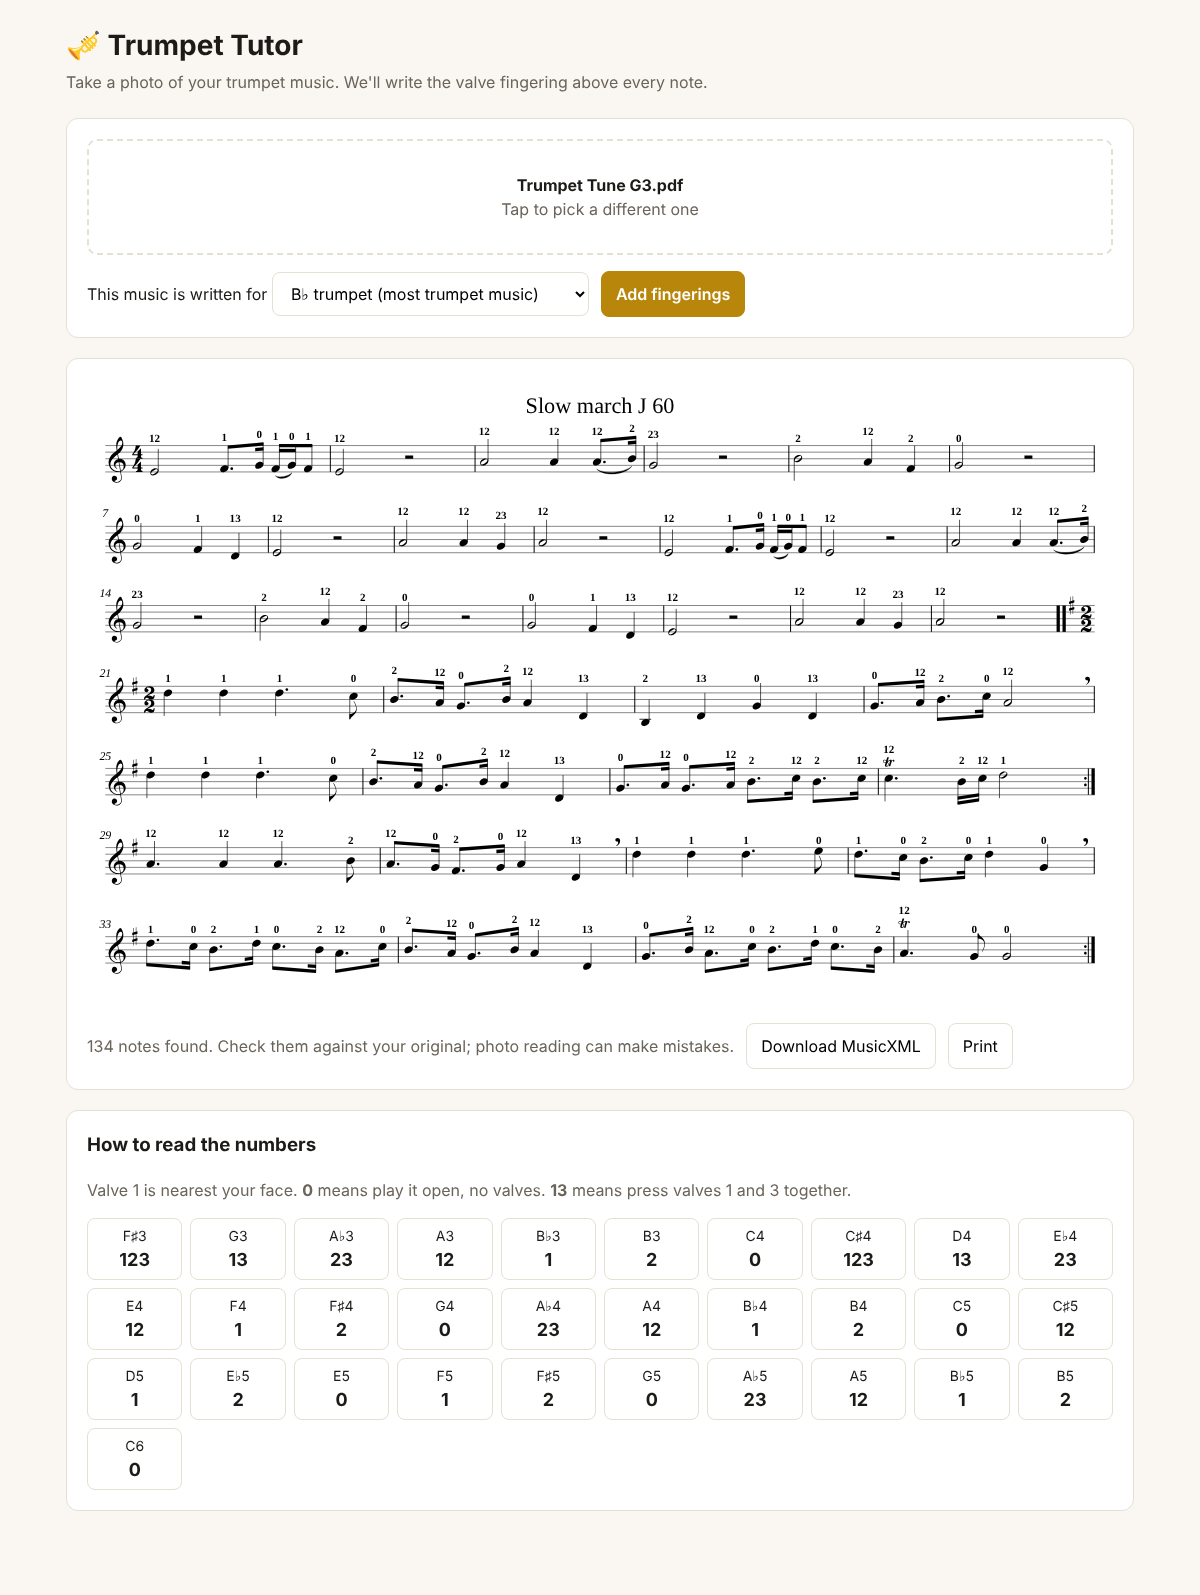
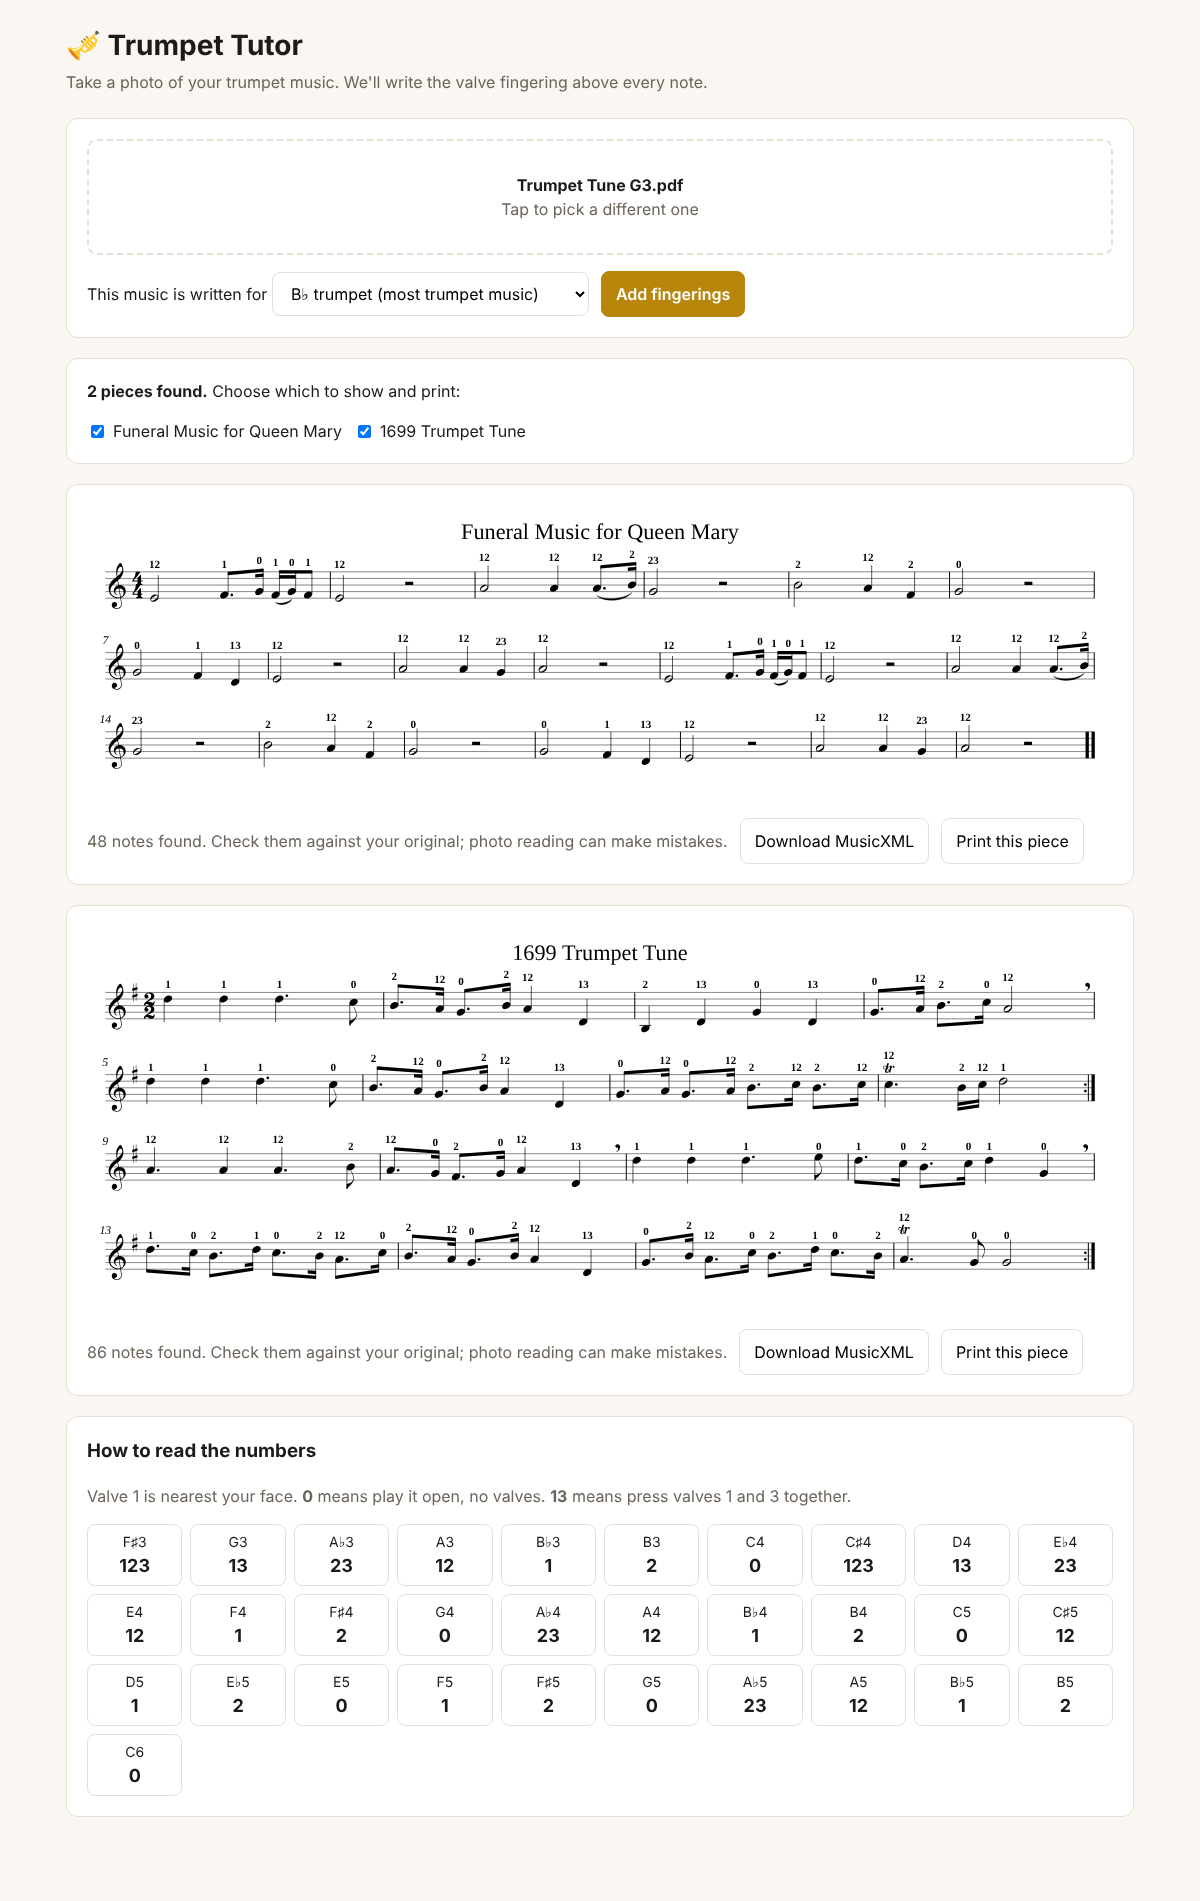
Show each piece on a page separately, with a piece picker
homr reads a page as one piece, so a page with two tunes came back as
one long score under one title. Split the score where the gap between
staves is much bigger than usual, read each title with OCR, and let the
user choose which pieces to show and print.

Claude-Session: https://claude.ai/code/session_011UwKBBp6m2Gx7RRsJYKoG7

diff --git a/app/static/index.html b/app/static/index.html
@@ -26,6 +26,8 @@
   .legend div { border: 1px solid var(--line); border-radius: 8px; padding: 6px 8px; text-align: center; }
   .legend b { display: block; font-size: 18px; }
   .warn { color: var(--warn); font-size: 14px; }
+  .pick { display: flex; gap: 6px; align-items: center; }
+  .piece { break-after: page; }
   @media print { .no-print { display: none; } .card { border: 0; padding: 0; } body { background: #fff; } }
 </style>
 </head>
@@ -103,7 +105,7 @@ $('go').addEventListener('click', async () => {
       if (data.progress) $('status').textContent = data.progress + '… about half a minute per page.';
     } while (data.status === 'working');
     if (data.status === 'error') throw new Error(data.detail);
-    showResults(data.pages);
+    showResults(data.pieces);
     $('status').textContent = '';
   } catch (err) {
     $('status').className = 'error';
@@ -126,26 +128,55 @@ async function call(url, options) {
   return data;
 }
 
-function showResults(pages) {
-  pages.forEach((page, i) => {
+function showResults(pieces) {
+  // With several pieces, let the reader pick which ones to show and print.
+  if (pieces.length > 1) {
+    const picker = document.createElement('div');
+    picker.className = 'card no-print';
+    picker.innerHTML = `<b>${pieces.length} pieces found.</b> Choose which to show and print:
+      <div class="row">${pieces.map((p, i) =>
+        `<label class="pick"><input type="checkbox" data-piece="${i}" checked> ${escapeHtml(p.title)}</label>`).join('')}</div>`;
+    picker.addEventListener('change', e => {
+      const box = e.target.closest('input[data-piece]');
+      if (box) $('piece-' + box.dataset.piece).hidden = !box.checked;
+    });
+    $('results').appendChild(picker);
+  }
+  pieces.forEach((piece, i) => {
     const card = document.createElement('div');
-    card.className = 'card';
-    const out = page.notes.filter(n => !n.in_range);
+    card.className = 'card piece';
+    card.id = 'piece-' + i;
+    const out = piece.notes.filter(n => !n.in_range);
     const warn = out.length
       ? `<p class="warn">${out.length} note(s) are outside the normal trumpet range and are marked “?”: ${out.map(n => n.note + ' (bar ' + n.measure + ')').join(', ')}.</p>`
       : '';
-    const blob = new Blob([page.musicxml], { type: 'application/vnd.recordare.musicxml+xml' });
+    const blob = new Blob([piece.musicxml], { type: 'application/vnd.recordare.musicxml+xml' });
+    const filename = piece.title.replace(/[^A-Za-z0-9]+/g, '-').replace(/^-|-$/g, '') || 'fingerings';
     card.innerHTML = `
-      ${pages.length > 1 ? `<h3>Page ${i + 1}</h3>` : ''}
-      <div class="score">${page.svg.join('')}</div>
+      <div class="score">${piece.svg.join('')}</div>
       ${warn}
       <div class="row no-print">
-        <span class="status">${page.notes.length} notes found. Check them against your original; photo reading can make mistakes.</span>
-        <a download="fingerings.musicxml" href="${URL.createObjectURL(blob)}"><button>Download MusicXML</button></a>
-        <button onclick="window.print()">Print</button>
+        <span class="status">${piece.notes.length} notes found. Check them against your original; photo reading can make mistakes.</span>
+        <a download="${filename}.musicxml" href="${URL.createObjectURL(blob)}"><button>Download MusicXML</button></a>
+        <button data-print="${i}">Print this piece</button>
       </div>`;
+    card.querySelector('[data-print]').addEventListener('click', () => printOnly(card));
     $('results').appendChild(card);
   });
+}
+
+// Print a single piece by briefly hiding the others.
+function printOnly(card) {
+  const hidden = [...document.querySelectorAll('.piece')].filter(c => c !== card && !c.hidden);
+  hidden.forEach(c => c.hidden = true);
+  window.print();
+  hidden.forEach(c => c.hidden = false);
+}
+
+function escapeHtml(text) {
+  const div = document.createElement('div');
+  div.textContent = text;
+  return div.innerHTML;
 }
 
 // Fingering chart for the legend (written pitch, B-flat trumpet).

diff --git a/app/pieces.py b/app/pieces.py
@@ -1,0 +1,160 @@
+"""Split a page that holds several pieces into one score per piece.
+
+homr reads a whole page as a single piece, so a page with two tunes comes back
+as one long score under one (often wrong) title. Using the staff positions
+homr writes, staves separated by a much bigger gap than usual start a new
+piece; the MusicXML is cut at that system, and each piece's title is read
+with OCR from the space above its first staff.
+"""
+
+import copy
+import re
+import threading
+import xml.etree.ElementTree as ET
+from pathlib import Path
+from statistics import median
+
+import cv2
+import numpy as np
+from PIL import Image
+
+# A gap this many times the usual gap between staves starts a new piece.
+NEW_PIECE_GAP = 1.8
+
+_ocr = None
+_ocr_lock = threading.Lock()
+
+
+def read_staffs(txt_path: Path) -> list[tuple[float, float]]:
+    """(top, bottom) of each staff as a fraction of page height, top to bottom."""
+    staffs = []
+    for line in txt_path.read_text().split("\n"):
+        parts = line.split()
+        if len(parts) == 5:
+            cy, h = float(parts[2]), float(parts[4])
+            staffs.append((cy - h / 2, cy + h / 2))
+    return sorted(staffs)
+
+
+def group_staffs(staffs: list[tuple[float, float]]) -> list[list[int]]:
+    """Indexes of the staves in each piece."""
+    if len(staffs) < 3:
+        return [list(range(len(staffs)))]
+    gaps = [staffs[i + 1][0] - staffs[i][1] for i in range(len(staffs) - 1)]
+    usual = median(gaps)
+    groups = [[0]]
+    for i, gap in enumerate(gaps, 1):
+        if gap > NEW_PIECE_GAP * usual:
+            groups.append([])
+        groups[-1].append(i)
+    return groups
+
+
+def split_pieces(xml_text: str, image: Path, staffs_txt: Path) -> list[str]:
+    """Return one MusicXML string per piece found on the page."""
+    staffs = read_staffs(staffs_txt) if staffs_txt.exists() else []
+    root = ET.fromstring(xml_text)
+    part = root.find("part")
+    systems = _systems(part)
+    groups = group_staffs(staffs) if len(systems) == len(staffs) else [list(range(len(systems)))]
+
+    page = Image.open(image).convert("L")
+    pieces = []
+    for n, group in enumerate(groups):
+        above = staffs[groups[n - 1][-1]][1] if n > 0 else 0.0
+        title = read_title(page, above, staffs[group[0]][0]) if staffs else None
+        measures = [m for i in group for m in systems[i]]
+        pieces.append(_build_piece(root, part, measures, title))
+    return pieces
+
+
+def _systems(part: ET.Element) -> list[list[ET.Element]]:
+    systems = []
+    for measure in part.findall("measure"):
+        starts_system = any(p.get("new-system") == "yes" for p in measure.findall("print"))
+        if not systems or starts_system:
+            systems.append([])
+        systems[-1].append(measure)
+    return systems
+
+
+def _build_piece(root: ET.Element, part: ET.Element, measures: list[ET.Element], title: str | None) -> str:
+    """A copy of the score holding only these measures, renumbered from 1."""
+    # Carry clef, key, time and divisions in force before the first measure.
+    carried = {}
+    for measure in part.findall("measure"):
+        if measure is measures[0]:
+            break
+        for attrs in measure.findall("attributes"):
+            for child in attrs:
+                carried[child.tag] = child
+
+    new_root = copy.deepcopy(root)
+    new_part = new_root.find("part")
+    for m in new_part.findall("measure"):
+        new_part.remove(m)
+    for number, measure in enumerate(measures, 1):
+        m = copy.deepcopy(measure)
+        m.set("number", str(number))
+        if number == 1:
+            for p in m.findall("print"):
+                m.remove(p)
+            present = {child.tag for attrs in m.findall("attributes") for child in attrs}
+            missing = [copy.deepcopy(c) for tag, c in carried.items() if tag not in present]
+            if missing:
+                attrs = ET.Element("attributes")
+                order = ["divisions", "key", "time", "clef"]
+                attrs.extend(sorted(missing, key=lambda c: order.index(c.tag) if c.tag in order else 9))
+                m.insert(0, attrs)
+        new_part.append(m)
+
+    if title:
+        work = new_root.find("work")
+        if work is None:
+            work = ET.Element("work")
+            new_root.insert(0, work)
+        work_title = work.find("work-title")
+        if work_title is None:
+            work_title = ET.SubElement(work, "work-title")
+        work_title.text = title
+    return ET.tostring(new_root, encoding="unicode", xml_declaration=True)
+
+
+def read_title(page: Image.Image, top: float, bottom: float) -> str | None:
+    """The largest line of text between two heights (fractions of the page)."""
+    w, h = page.size
+    y0, y1 = int(top * h), int(bottom * h)
+    if y1 - y0 < 20:
+        return None
+    region = np.asarray(page.crop((0, y0, w, y1)))
+    region = cv2.cvtColor(np.where(region < 140, 0, 255).astype(np.uint8), cv2.COLOR_GRAY2RGB)
+    ocr = _get_ocr()
+    found = ocr(region, use_det=True, use_cls=True, use_rec=True)  # flags persist between calls
+    if found.boxes is None or not len(found.boxes):
+        return None
+    best, best_height = None, 0
+    for box in found.boxes:
+        x0, by0 = box.min(0).astype(int)
+        x1, by1 = box.max(0).astype(int)
+        # Generous padding above and below, little to the sides so a
+        # neighbouring word (like a number beside the title) stays out.
+        crop = region[max(0, by0 - 40):by1 + 40, max(0, x0 - 12):x1 + 12]
+        # Recognising each line on its own is much more reliable for big title type.
+        text = (ocr(crop, use_det=False, use_cls=False).txts or ("",))[0].strip()
+        if _looks_like_title(text) and by1 - by0 > best_height:
+            best, best_height = text, by1 - by0
+    return best
+
+
+def _looks_like_title(text: str) -> bool:
+    letters = sum(c.isalpha() for c in text)
+    return letters >= 4 and "=" not in text and not re.fullmatch(r"\(.*\)", text)
+
+
+def _get_ocr():
+    global _ocr
+    with _ocr_lock:
+        if _ocr is None:
+            from rapidocr import RapidOCR  # installed with homr
+            _ocr = RapidOCR()
+    return _ocr

diff --git a/app/server.py b/app/server.py
@@ -4,6 +4,7 @@ Upload a photo (or PDF) of trumpet sheet music; get back the score re-engraved
 with the valve fingering above every note.
 
 Pipeline: image -> homr (optical music recognition) -> MusicXML
+          -> pieces.split_pieces (one score per tune on the page)
           -> fingering.annotate_musicxml -> Verovio -> SVG
 """
 
@@ -23,6 +24,7 @@ from PIL import Image, ImageOps
 
 from beaming import add_beams
 from fingering import TRANSPOSE, annotate_musicxml
+from pieces import split_pieces
 
 HERE = Path(__file__).parent
 app = FastAPI(title="Trumpet Tutor")
@@ -40,14 +42,15 @@ def to_page_images(upload: Path, workdir: Path) -> list[Path]:
     return [out]
 
 
-def recognize(image: Path) -> str:
-    """Run homr on one image and return the MusicXML it wrote."""
-    result = subprocess.run(["homr", str(image)], capture_output=True, text=True, cwd=image.parent)
+def recognize(image: Path) -> list[str]:
+    """Run homr on one page image and return MusicXML for each piece on it."""
+    result = subprocess.run(["homr", "--write-staff-positions", str(image)],
+                            capture_output=True, text=True, cwd=image.parent)
     xml_path = image.with_suffix(".musicxml")
     if result.returncode != 0 or not xml_path.exists():
         raise HTTPException(422, "Couldn't find any music staves in that image. "
                                  "Try a sharper, straighter photo with the page filling the frame.")
-    return xml_path.read_text()
+    return split_pieces(xml_path.read_text(), image, image.with_suffix(".txt"))
 
 
 def tidy(xml_text: str) -> str:
@@ -89,12 +92,15 @@ def run_job(job_id: str, upload: Path, mode: str) -> None:
     job = jobs[job_id]
     try:
         images = to_page_images(upload, upload.parent)
-        pages = []
+        pieces = []
         for n, image in enumerate(images, 1):
             job["progress"] = f"Reading page {n} of {len(images)}"
-            xml, notes = annotate_musicxml(tidy(recognize(image)), mode)
-            pages.append({"musicxml": xml, "svg": render_svg(xml), "notes": notes})
-        job.update(status="done", pages=pages)
+            for piece in recognize(image):
+                xml, notes = annotate_musicxml(tidy(piece), mode)
+                title = ET.fromstring(xml).findtext("work/work-title") or f"Piece {len(pieces) + 1}"
+                pieces.append({"title": title, "page": n, "musicxml": xml,
+                               "svg": render_svg(xml), "notes": notes})
+        job.update(status="done", pieces=pieces)
     except HTTPException as e:
         job.update(status="error", detail=e.detail)
     except Exception as e:

diff --git a/README.md b/README.md
@@ -10,15 +10,19 @@ the B♭ trumpet valve fingering above every note.
 1. **Read the notes**: [homr](https://github.com/liebharc/homr), an open-source
    optical music recognition (OMR) engine, turns the image into MusicXML. It
    handles phone photos (tilt, uneven light) and takes ~15–30 s per page on a CPU.
-2. **Add fingerings**: `app/fingering.py` maps each written pitch (F♯3 to C6)
+2. **Split into pieces**: a page with several tunes is cut into one score
+   per tune where the gap between staves is much bigger than usual
+   (`app/pieces.py`), and each title is read from the page with OCR. The app
+   lets you pick which pieces to show and print.
+3. **Add fingerings**: `app/fingering.py` maps each written pitch (F♯3 to C6)
    to its standard valve combination and inserts it as a MusicXML `<fingering>`
    above the note. A "concert pitch" option transposes up a whole step first,
    for music written for piano, flute or voice.
-3. **Beam the short notes**: homr gives note values but not beams, so
+4. **Beam the short notes**: homr gives note values but not beams, so
    `app/beaming.py` rebuilds them the way engravers group them: one group per
    beat (crotchet beats in 2/4, 3/4, 4/4, 2/2; dotted crotchets in 6/8, 9/8,
    12/8), with semiquaver stubs next to dotted quavers.
-4. **Draw the score**: [Verovio](https://www.verovio.org) engraves the
+5. **Draw the score**: [Verovio](https://www.verovio.org) engraves the
    annotated MusicXML as SVG, keeping the original's line breaks, shown in the browser and printable.
 
 ## Run it on GitHub (no install)
